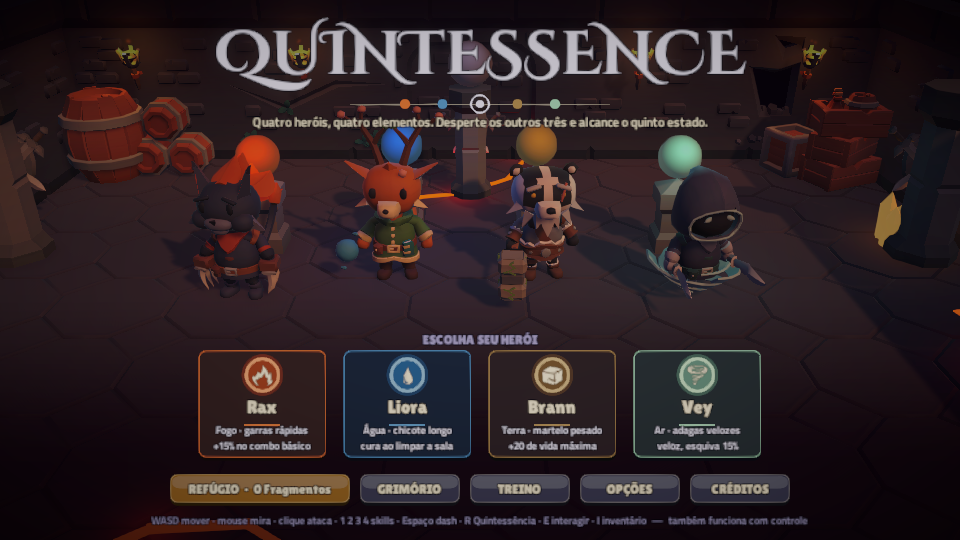
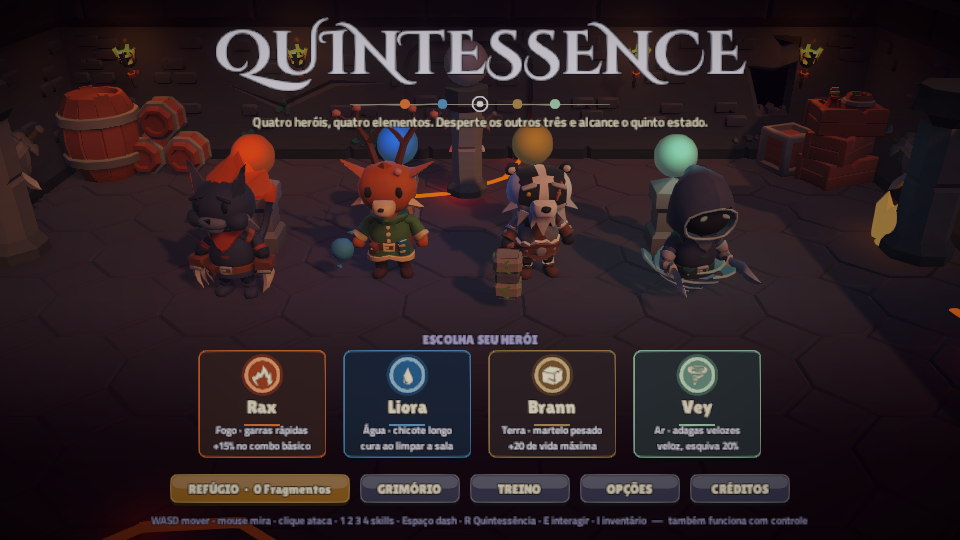
Elite Divisores (sexto traço): ao cair, cada inimigo vira dois Cinzentos que contam para a onda; medição de 24 runs com desvio de jogador (11 de 24)

diff --git a/docs/progresso.html b/docs/progresso.html
@@ -54,6 +54,15 @@
           <li>Apertar R com os quatro elementos agora solta uma explosão própria do herói em volta dele, já reagindo com o que pega: <b>Erupção do Caçador</b> (Rax, queima), <b>Maré da Fonte</b> (Liora, encharca e cura 15%), <b>Rugido da Montanha</b> (Brann, atordoa) e <b>Olho do Vendaval</b> (Vey, empurra longe e cega)</li>
           <li>O nome aparece sobre o herói com um anel na cor dele: o clímax da run (é o que quebra o escudo do chefe) ficou com a cara de cada um</li>
         </ul>
+        <h3 style="margin-top:14px">Medição maior: 24 runs</h3>
+        <ul>
+          <li>Com desvio de 65% (jogador razoável): <b>11 de 24 vitórias (46%)</b>. Rax 4/6, Liora 4/6 (o reforço dela funcionou), Brann 3/6 e <b>Vey 0/6</b></li>
+          <li>Vey reforçado sem mexer no dano por segundo: +10 de vida, esquiva de 20% (era 15%), adagas com alcance 3,2 e arco de 110°</li>
+        </ul>
+        <h3 style="margin-top:14px">Sexto traço de Elite: Divisores</h3>
+        <ul>
+          <li>Ao cair, cada inimigo da Elite vira <b>dois Cinzentos</b> (que contam para a onda e não se dividem de novo); para compensar, nascem com 15% menos vida. Skills de área e reações resolvem</li>
+        </ul>
       </div>
     </div>
   </section>

diff --git a/Assets/Game/Enemies/WaveSpawner.cs b/Assets/Game/Enemies/WaveSpawner.cs
@@ -39,6 +39,9 @@ namespace Quintessence.Enemies
         /// A ultima onda traz um Campeao: um inimigo maior, com mais que o dobro de vida, que paga mais.
         public bool Champion { get; set; }
         public Health LastChampion { get; private set; }
+        /// O que nasce quando um Divisor cai (Cinzento). A run define.
+        public GameObject SplitPrefab { get; set; }
+        public int Splits { get; private set; }
         [Tooltip("Segundos de luta sem ninguem levar dano ate os inimigos serem trazidos para perto do heroi.")]
         [SerializeField] float stallSeconds = 25f;
         StallTimer stall;
@@ -115,6 +118,8 @@ namespace Quintessence.Enemies
                     bool champion = Champion && index == waves.Count - 1 && k == 1;
                     var keep = Scaling;
                     if (champion) Scaling = new EnemyScaling { Health = keep.Health * 1.7f, Damage = keep.Damage * 1.15f, Speed = keep.Speed, Cooldown = keep.Cooldown, Size = keep.Size * 1.3f };
+                    // o Cinzento e o que nasce de um Divisor: ele mesmo nunca se divide
+                    else if (keep.Splits && entry.prefab == SplitPrefab) { var small = keep; small.Splits = false; Scaling = small; }
                     var go = Instantiate(entry.prefab, pos, Quaternion.identity, transform);
                     Scaling = keep;
                     if (champion)
@@ -130,6 +135,25 @@ namespace Quintessence.Enemies
                     }
                     go.GetComponent<Health>().Died += _ => State.NotifyDeath();
                 }
+        }
+
+        /// Um Divisor caiu: nascem count Cinzentos em volta do corpo, que contam para a onda e nao se dividem de novo.
+        public void SpawnSplit(Vector3 at, int count)
+        {
+            if (SplitPrefab == null || State == null || State.Cleared) return;
+            State.AddAlive(count);
+            var keep = Scaling;
+            var child = keep; child.Splits = false; child.Volatile = false;
+            Scaling = child;
+            for (int i = 0; i < count; i++)
+            {
+                var p = at + Quaternion.Euler(0, 360f * i / count + 30f, 0) * Vector3.forward * 0.9f;
+                if (NavMesh.SamplePosition(p, out var hit, 2f, NavMesh.AllAreas)) p = hit.position;
+                var go = Instantiate(SplitPrefab, p, Quaternion.identity, transform);
+                go.GetComponent<Health>().Died += _ => State.NotifyDeath();
+                Splits++;
+            }
+            Scaling = keep;
         }
 
         Vector3 PickPoint(float angle)

diff --git a/Assets/Game/Run/Difficulty.cs b/Assets/Game/Run/Difficulty.cs
@@ -3,7 +3,7 @@ using System;
 namespace Quintessence.Run
 {
     /// O que deixa uma sala de Elite diferente: os inimigos ganham um traco, alem de virem em tres ondas.
-    public enum EliteModifier { None, Swift, Sturdy, Fierce, Volatile, Warded }
+    public enum EliteModifier { None, Swift, Sturdy, Fierce, Volatile, Warded, Splitting }
 
     /// Multiplicadores aplicados aos inimigos de uma sala. 1 = como esta na ficha do inimigo.
     public struct Difficulty
@@ -13,6 +13,8 @@ namespace Quintessence.Run
         public bool Volatile;
         /// Golpes que cada inimigo bloqueia ao nascer.
         public int Wards;
+        /// Ao cair, vira dois Cinzentos (Elite Divisores).
+        public bool Splits;
         public static Difficulty Base => new() { Health = 1f, Damage = 1f, Speed = 1f, Cooldown = 1f, Size = 1f };
     }
 
@@ -42,6 +44,7 @@ namespace Quintessence.Run
                 case EliteModifier.Fierce: d.Damage *= FierceDamage; break;
                 case EliteModifier.Volatile: d.Volatile = true; break;
                 case EliteModifier.Warded: d.Wards = 1; d.Health *= 1.15f; break;
+                case EliteModifier.Splitting: d.Splits = true; d.Health *= 0.85f; break;
             }
             return d;
         }
@@ -53,7 +56,7 @@ namespace Quintessence.Run
             {
                 uint h = (uint)seed * 2654435761u ^ (uint)(nodeId + 1) * 40503u;
                 h ^= h >> 13; h *= 2246822519u; h ^= h >> 16;
-                return (EliteModifier)(1 + h % 5);
+                return (EliteModifier)(1 + h % 6);
             }
         }
 
@@ -64,6 +67,7 @@ namespace Quintessence.Run
             EliteModifier.Fierce => "Ferozes",
             EliteModifier.Volatile => "Voláteis",
             EliteModifier.Warded => "Protegidos",
+            EliteModifier.Splitting => "Divisores",
             _ => "",
         };
 
@@ -74,6 +78,7 @@ namespace Quintessence.Run
             EliteModifier.Fierce => "causam 20% mais dano",
             EliteModifier.Volatile => "explodem ao morrer: saia do círculo",
             EliteModifier.Warded => "o primeiro golpe em cada um é bloqueado",
+            EliteModifier.Splitting => "ao cair, cada um vira dois Cinzentos: área resolve",
             _ => "",
         };
     }

diff --git a/Assets/Game/Game/Tests/PlayMode/RunPlayTests.cs b/Assets/Game/Game/Tests/PlayMode/RunPlayTests.cs
@@ -1645,6 +1645,25 @@ namespace Quintessence.Game.PlayTests
             Assert.IsNotNull(Object.FindFirstObjectByType<VolatileBurst>(), "o Volatil deixa o circulo");
             for (int k = 0; k < 3000 && blasts == 0; k++) yield return null; // a camera lenta do abate dura muitos quadros no teste
             Assert.Greater(blasts, 0, "e o circulo explode");
+
+            // Divisores: quem cai vira dois Cinzentos, que contam para a onda e nao se dividem de novo
+            foreach (var e in Object.FindObjectsByType<EnemyBrain>(FindObjectsSortMode.None)) Object.Destroy(e.gameObject);
+            foreach (var b in Object.FindObjectsByType<VolatileBurst>(FindObjectsSortMode.None)) Object.Destroy(b.gameObject);
+            yield return null;
+            director.StartEncounter(RoomType.Elite, 4, EliteModifier.Splitting);
+            for (int k = 0; k < 90 && Object.FindObjectsByType<EnemyBrain>(FindObjectsSortMode.None).Length == 0; k++) yield return null;
+            for (int k = 0; k < 25; k++) yield return null;
+            var splitSpawner = Object.FindFirstObjectByType<WaveSpawner>();
+            var splitter = Object.FindObjectsByType<EnemyBrain>(FindObjectsSortMode.None).First(e => e.Definition.attack != EnemyAttackKind.Explode && e.GetComponent<Champion>() == null && e.Definition.displayName != "Cinzento");
+            Assert.IsTrue(splitter.Scaling.Splits);
+            int aliveBefore = splitSpawner.State.Alive;
+            splitter.GetComponent<Health>().TakeDamage(new DamageInfo(9999f, ElementType.None, Team.Player));
+            yield return null;
+            Assert.AreEqual(2, splitSpawner.Splits, "o Divisor vira dois");
+            Assert.AreEqual(aliveBefore + 1, splitSpawner.State.Alive, "a onda conta os dois (um caiu, dois nasceram)");
+            var babies = Object.FindObjectsByType<EnemyBrain>(FindObjectsSortMode.None).Where(e => e.Definition.displayName == "Cinzento" && !e.GetComponent<Health>().IsDead).ToList();
+            Assert.GreaterOrEqual(babies.Count, 2);
+            Assert.IsFalse(babies.Any(b => b.Scaling.Splits), "os Cinzentos nao se dividem de novo");
             GameFlow.Layers = 8; GameFlow.Shrines = 3;
             Time.captureFramerate = 0;
         }

diff --git a/Assets/Game/Game/RunDirector.cs b/Assets/Game/Game/RunDirector.cs
@@ -664,7 +664,8 @@ namespace Quintessence.Game
             var diff = DifficultyCurve.For(type, depth, trait);
             diff.Health *= Ascension.HealthMult(GameFlow.Ascension);
             diff.Damage *= Ascension.DamageMult(GameFlow.Ascension);
-            spawner.Scaling = new EnemyScaling { Health = diff.Health, Damage = diff.Damage, Speed = diff.Speed, Cooldown = diff.Cooldown, Size = diff.Size, Volatile = diff.Volatile, Wards = diff.Wards };
+            spawner.Scaling = new EnemyScaling { Health = diff.Health, Damage = diff.Damage, Speed = diff.Speed, Cooldown = diff.Cooldown, Size = diff.Size, Volatile = diff.Volatile, Wards = diff.Wards, Splits = diff.Splits };
+            spawner.SplitPrefab = swarmPrefab;
             CurrentTrait = trait;
             if (trait != EliteModifier.None)
             {

diff --git a/Assets/Game/Enemies/Tests/Editor/EnemyRulesTests.cs b/Assets/Game/Enemies/Tests/Editor/EnemyRulesTests.cs
@@ -98,5 +98,22 @@ namespace Quintessence.Enemies.Tests
             Assert.AreEqual(1, w.Tick(0.1f));
             Assert.AreEqual(1, w.Alive);
         }
+
+        [Test] public void WaveState_CountsEnemiesBornMidWave()
+        {
+            var w = new WaveState(new[] { 2 }, 0f);
+            w.Start();
+            Assert.AreEqual(0, w.Tick(0.1f));
+            w.NotifyDeath();
+            w.AddAlive(2); // um Divisor caiu e virou dois
+            w.NotifyDeath();
+            Assert.AreEqual(-1, w.Tick(0.1f));
+            Assert.IsFalse(w.Cleared, "ainda ha dois vivos");
+            w.NotifyDeath(); w.NotifyDeath();
+            w.Tick(0.1f);
+            Assert.IsTrue(w.Cleared);
+            w.AddAlive(3);
+            Assert.AreEqual(0, w.Alive, "sala limpa nao reabre");
+        }
     }
 }

diff --git a/Assets/Game/Enemies/EnemyBrain.cs b/Assets/Game/Enemies/EnemyBrain.cs
@@ -125,6 +125,9 @@ namespace Quintessence.Enemies
             if (body != null) body.enabled = false;
             Play("Death", 0.05f);
             if ((Scaling.Volatile || definition.burstOnDeath) && definition.attack != EnemyAttackKind.Explode) VolatileBurst.Spawn(transform.position, 2f, 0.85f, Damage * 0.7f);
+            // Elite Divisores: o corpo vira dois Cinzentos (o Campeao e quem explode nao se dividem)
+            if (Scaling.Splits && definition.attack != EnemyAttackKind.Explode && GetComponent<Champion>() == null)
+                GetComponentInParent<WaveSpawner>()?.SpawnSplit(transform.position, 2);
             Destroy(gameObject, 1.5f);
         }
 

diff --git a/Assets/Game/Enemies/EnemyScaling.cs b/Assets/Game/Enemies/EnemyScaling.cs
@@ -8,6 +8,8 @@ namespace Quintessence.Enemies
         public bool Volatile;
         /// Golpes bloqueados ao nascer (Elite Protegidos).
         public int Wards;
+        /// Ao cair, vira dois Cinzentos (Elite Divisores). Os Cinzentos nao se dividem.
+        public bool Splits;
         public static EnemyScaling None => new() { Health = 1f, Damage = 1f, Speed = 1f, Cooldown = 1f, Size = 1f };
     }
 }

diff --git a/Assets/Game/Run/Tests/Editor/DifficultyTests.cs b/Assets/Game/Run/Tests/Editor/DifficultyTests.cs
@@ -83,7 +83,7 @@ namespace Quintessence.Run.Tests
                 Assert.IsNotEmpty(DifficultyCurve.Name(m));
                 Assert.IsNotEmpty(DifficultyCurve.Describe(m));
             }
-            Assert.AreEqual(5, seen.Count);
+            Assert.AreEqual(6, seen.Count, "os seis tracos saem");
         }
 
         [Test]

diff --git a/Assets/Game/Enemies/WaveState.cs b/Assets/Game/Enemies/WaveState.cs
@@ -37,5 +37,8 @@ namespace Quintessence.Enemies
         }
 
         public void NotifyDeath() { if (alive > 0) alive--; }
+
+        /// Inimigos que nascem no meio da onda (Divisores): a sala so limpa quando eles caem tambem.
+        public void AddAlive(int count) { if (count > 0 && !Cleared) alive += count; }
     }
 }

diff --git a/docs/GDD.md b/docs/GDD.md
@@ -42,7 +42,7 @@ Quatro aprendizes, cada um nascido de um elemento. O jogador escolhe um no iníc
 | **Rax** | Felino caçador, garras | Fogo · Labareda | Garras do Caçador: combo básico +15% |
 | **Liora** | Espírito cervo-raposa, orbe d'água | Água · Maré | Seiva da Fonte: cura 8% ao limpar a sala; a Maré cura mais 3% |
 | **Brann** | Texugo veterano, martelo de pedra | Terra · Pilar de Pedra | Couro Velho: +20 de vida máxima |
-| **Vey** | Espírito do vento encapuzado, sem pernas, duas adagas | Ar · Vendaval | Passo de Brisa: +10% de velocidade, dash 20% mais rápido |
+| **Vey** | Espírito do vento encapuzado, sem pernas, duas adagas | Ar · Vendaval | Passo de Brisa: +10% de velocidade, dash 20% mais rápido, 20% de esquiva e +10 de vida |
 
 São os heróis do Quintessence 2D. No 3D usam os corpos e as animações do pack com cabeça, cauda e arma próprias. A parte mágica de cada um (crina, orbe, rachaduras do martelo, olhos e debrum) assume a cor da última skill usada.
 
@@ -112,7 +112,7 @@ Uma skill deixa no inimigo a **marca** do elemento dela. Acertar esse inimigo co
 
 - Mapa ramificado de 10 camadas. Depois de cada sala, de uma a três portas mostram o tipo da próxima sala e a recompensa.
 - A descida atravessa três trechos, cada um com luz, cor da pedra e da corrupção, adereços e mistura de inimigos próprios: **Salões de Cinza** (forja: braseiros, bigornas, vigas queimadas), **Cripta Afogada** (sarcófagos, urnas, água parada; mais inimigos de longe) e **Jardim de Pedra** (árvores petrificadas, cogumelos, cervo de pedra; mais inimigos pesados). A última sala é o **Coração das Cinzas** (obelisco de brasa e cristais âmbar).
-- **Combate:** 2 ondas (3 da sexta sala em diante). **Elite:** 3 ondas, um traço anunciado na porta (Velozes, Resistentes, Ferozes, Voláteis, que explodem ao morrer, ou Protegidos, que bloqueiam o primeiro golpe) e um **Campeão** na última onda (da sexta sala em diante, no lugar dele vem o **Carrasco**, um mini-chefe em três fases sem escudo); paga o dobro de Essência e uma bênção.
+- **Combate:** 2 ondas (3 da sexta sala em diante). **Elite:** 3 ondas, um traço anunciado na porta (Velozes, Resistentes, Ferozes, Voláteis, que explodem ao morrer, Protegidos, que bloqueiam o primeiro golpe, ou Divisores, que ao cair viram dois Cinzentos) e um **Campeão** na última onda (da sexta sala em diante, no lugar dele vem o **Carrasco**, um mini-chefe em três fases sem escudo); paga o dobro de Essência e uma bênção.
 - **Santuário:** desperta um elemento à escolha ou **aprofunda uma skill que já tem** (graus II e III: +30% de dano e recarga 10% menor cada). É a escolha entre espalhar (mais reações) e concentrar. **Mestre:** uma de três bênçãos. **Loja:** poção, elixir e bênçãos por Essência. **Descanso:** cura 30%.
 - **Provação:** sala de luta comum com um desafio sorteado no letreiro: **Contra o relógio** (limpar em 60 s com duas ondas, 84 s com três) ou **Ileso** (tomar no máximo três golpes; golpes no mesmo instante contam um). Cumprida, dá um talento extra e 15 de Essência; perdida, a sala segue normal e só o prêmio some. Aparece da terceira camada em diante, no máximo uma por camada.
 - **Tesouro:** um baú com Essência e um gole de vida. **Pacto:** três pactos sorteados entre cinco, cada um com um ganho forte e um custo permanente: Sangue (+25% de dano, −20% de vida máxima), Vidro (skills 25% mais rápidas, recebe +25% de dano), Ganância (toda a Essência por um talento), Eco (reações +30%, −15% de vida máxima) e Pressa (mais velocidade e dash, recebe +15% de dano). Dá para recusar.

diff --git a/README.md b/README.md
@@ -2,7 +2,7 @@
 
 Action roguelite 3D de câmera top-down: você escolhe um dos quatro heróis (Rax, Liora, Brann ou Vey), começa a run com o elemento dele, desperta os outros três e combina as skills em reações até alcançar a Quintessência. Projeto 3D de Jogos Digitais e Interação (Insper).
 
-**O que tem no jogo:** 4 heróis com golpe básico, passiva e maestria (5 níveis) próprios · 4 skills elementais, 6 reações e 4 fusões com o terceiro elemento · afinidade elemental e poças que marcam pelo elemento do trecho · run de 10 salas em mapa ramificado, por três trechos (Salões de Cinza, Cripta Afogada, Jardim de Pedra) até o Coração das Cinzas · 12 tipos de inimigo (entre eles o Escudeiro, que só cede pelas costas, e um elemental por trecho: Brasa Viva, Afogado e Sentinela), Campeão de Elite com 5 traços, o mini-chefe Carrasco e dois chefes finais sorteados por run (o Guardião e a Tecelã das Cinzas) · nível e 23 talentos, 29 bênçãos, Santuário que desperta ou aprofunda skills, Loja, Tesouro, Pacto e Provação (desafio que paga um talento extra) · 27 arranjos de sala (5 exclusivos de cada trecho) com perigos (brasa, espinhos, poças, barril de pólvora) · Refúgio com 7 melhorias permanentes e Ascensão em 5 níveis · run salva a cada sala (Continuar no título) · Grimório, treino com o herói escolhido, dicas de primeira vez e opções (volume, tela cheia, tremor de tela e dificuldade Tranquila).
+**O que tem no jogo:** 4 heróis com golpe básico, passiva e maestria (5 níveis) próprios · 4 skills elementais, 6 reações e 4 fusões com o terceiro elemento · afinidade elemental e poças que marcam pelo elemento do trecho · run de 10 salas em mapa ramificado, por três trechos (Salões de Cinza, Cripta Afogada, Jardim de Pedra) até o Coração das Cinzas · 12 tipos de inimigo (entre eles o Escudeiro, que só cede pelas costas, e um elemental por trecho: Brasa Viva, Afogado e Sentinela), Campeão de Elite com 6 traços, o mini-chefe Carrasco e dois chefes finais sorteados por run (o Guardião e a Tecelã das Cinzas) · nível e 23 talentos, 29 bênçãos, Santuário que desperta ou aprofunda skills, Loja, Tesouro, Pacto e Provação (desafio que paga um talento extra) · 27 arranjos de sala (5 exclusivos de cada trecho) com perigos (brasa, espinhos, poças, barril de pólvora) · Refúgio com 7 melhorias permanentes e Ascensão em 5 níveis · run salva a cada sala (Continuar no título) · Grimório, treino com o herói escolhido, dicas de primeira vez e opções (volume, tela cheia, tremor de tela e dificuldade Tranquila).
 
 **Equipe:** Leonardo de Souza, Nicolas Volf, Enzo Canavero, Miguel Damasio
 **Engine:** Unity `6000.6.4f1` (URP). Use exatamente essa versão.
